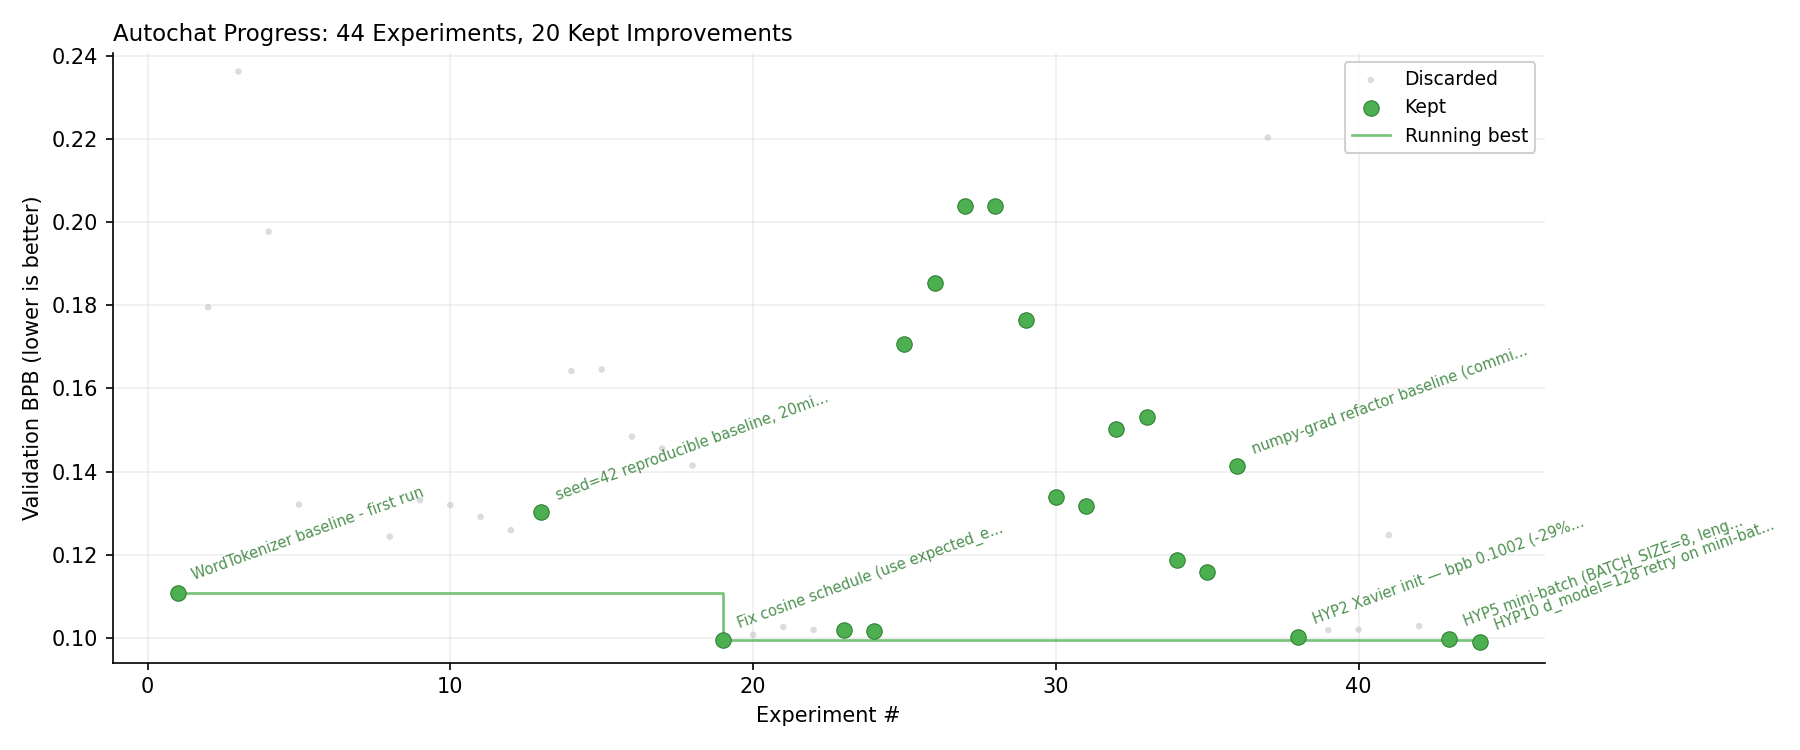
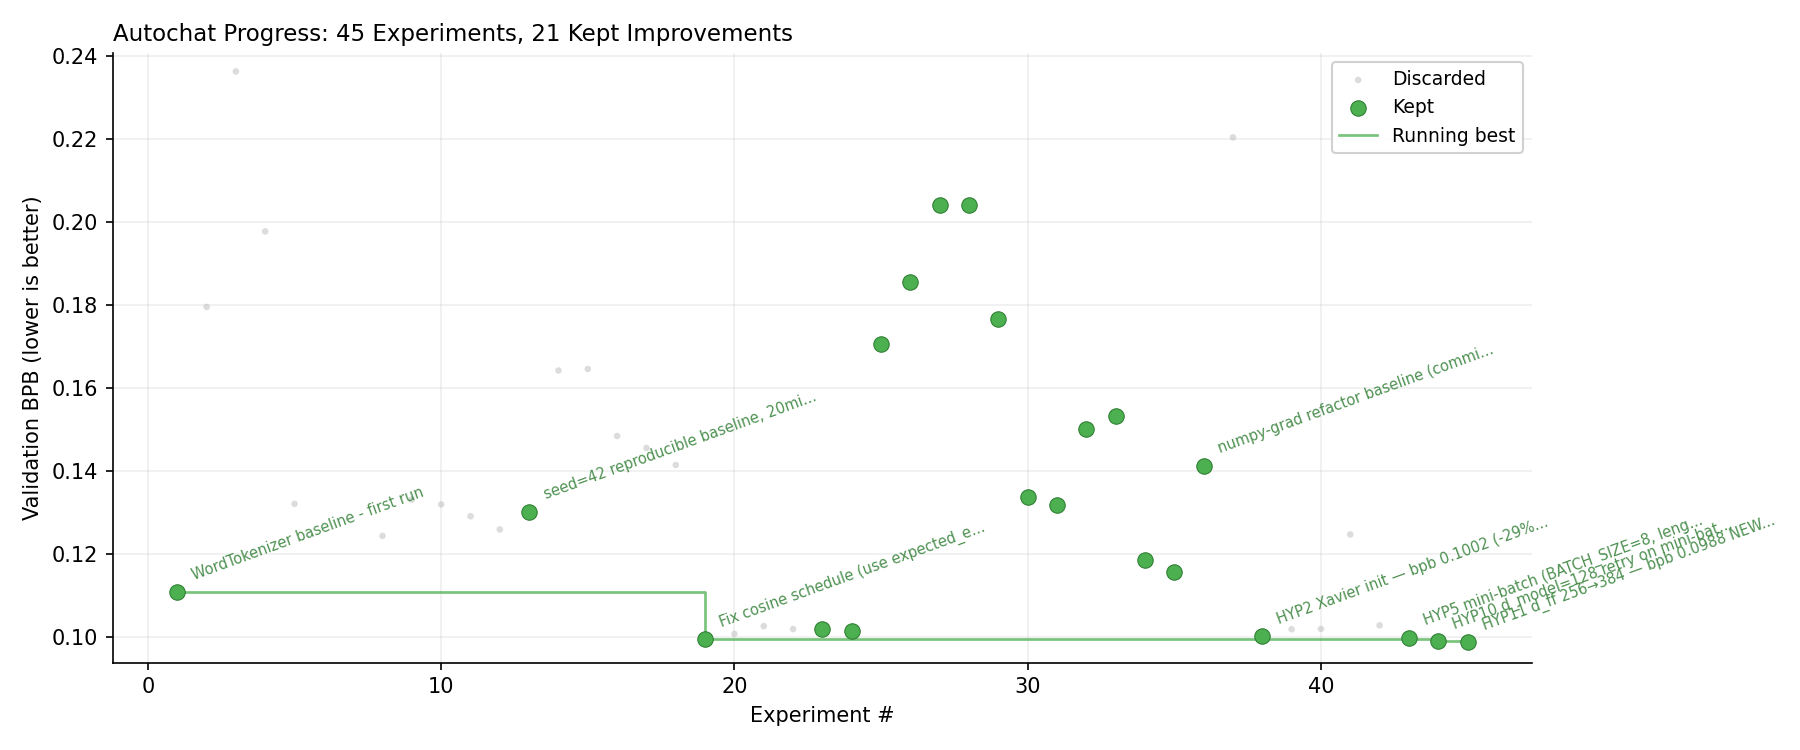
HYP11 d_ff 256→384 — bpb 0.0988 NEW BEST
Continuing the post-HYP10 push. Bumped d_ff from 256 to 384 (3x d_model
instead of 2x — toward the standard 4x). Got bpb 0.0988, beating HYP10's
0.0990. Same 92/92 acc, 110 epochs in 974s.

Pattern in the last three KEEPs (HYP5 → HYP10 → HYP11): each addition
of capacity now pays back, because the mini-batch infrastructure means
larger models still fit in budget. Pre-HYP5 we couldn't even tell if
capacity was the right axis (HYP6 underfit). Post-HYP5 the sweep is open.

This is the third consecutive new best. Likely there's a small further
gain from d_ff=512 (4x), then capacity will saturate the 92-QA corpus
and the next axis will need to be data-side (more QA, BPE, etc).

diff --git a/train.py b/train.py
@@ -401,7 +401,7 @@ def train(epochs: int = 500, lr: float = 0.002, time_budget: int | None = None):
     max_len = max(len(tokenizer.encode(t)) for t in TRAINING_DATA) + 1
     print(f"📏 Max seq len: {max_len}")
 
-    d_model, d_ff, num_heads, num_layers = 128, 256, 8, 3  # HYP10: d_model 96→128 retry on mini-batch
+    d_model, d_ff, num_heads, num_layers = 128, 384, 8, 3  # HYP11: d_ff 256→384 (toward 4*d_model)
     model = GPTMini(
         vocab_size=tokenizer.vocab_size,
         d_model=d_model, d_ff=d_ff, num_heads=num_heads, num_layers=num_layers,
